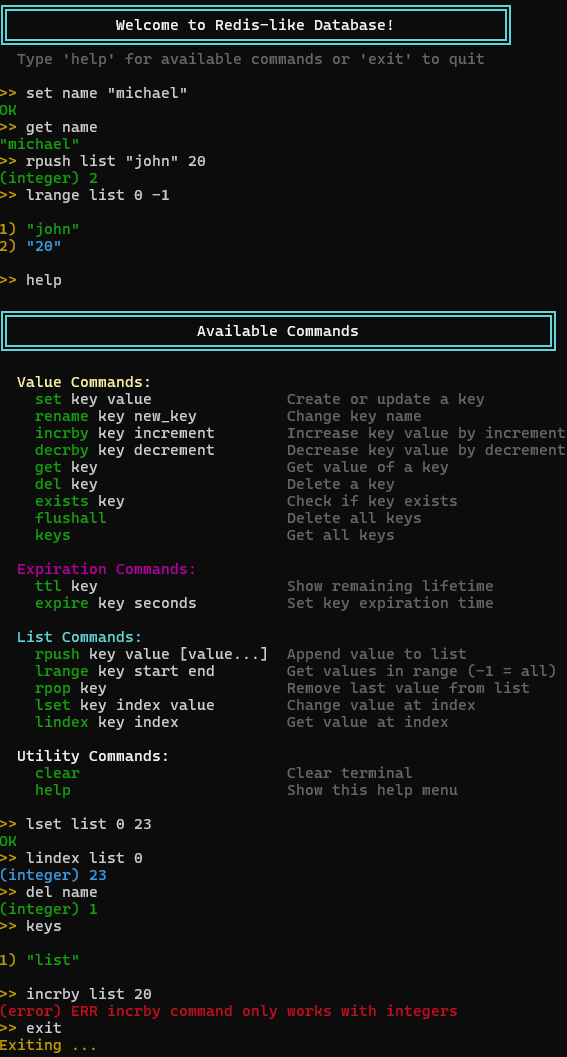
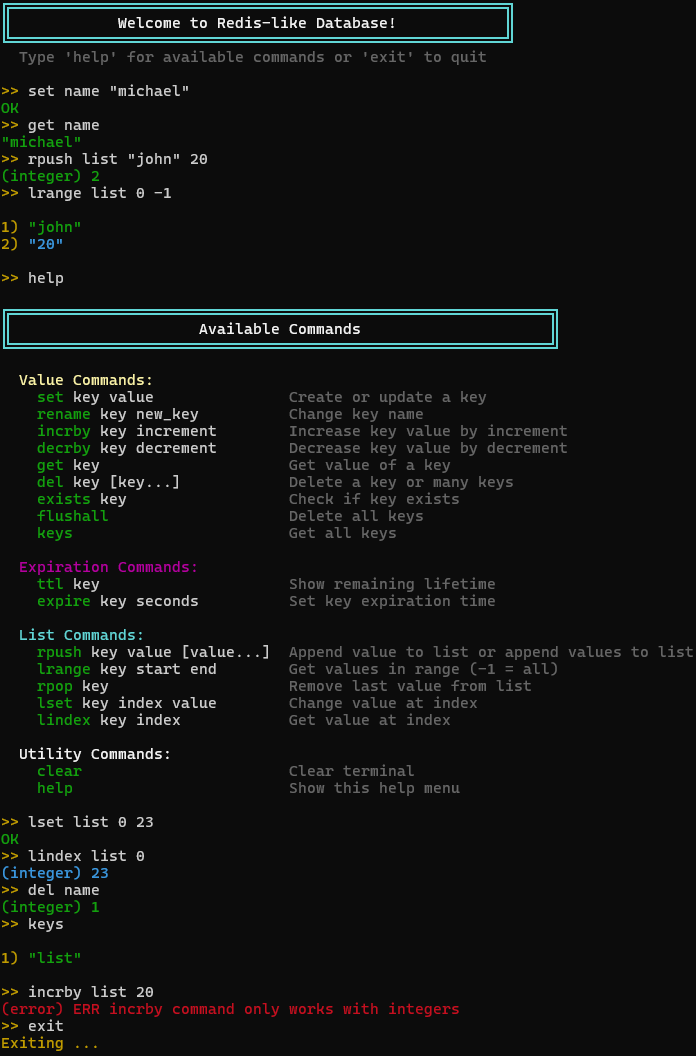
Added multi argument deletion to del command

diff --git a/source/operations.c b/source/operations.c
@@ -65,16 +65,19 @@ int op_get(HashMap **map, command_t *comm) {
 }
 
 int op_del(HashMap **map, command_t *comm) {
-    if(comm->counter != 2) {
+    if(comm->counter < 2) {
         printf(COLOR_RED "\n(error) ERR wrong number of arguments for 'del' command\n" COLOR_RESET);
-        printf(COLOR_YELLOW "(error) ERR correct usage: \"del KEY\"\n\n" COLOR_RESET);
+        printf(COLOR_YELLOW "(error) ERR correct usage: \"del KEY [KEY...]\"\n\n" COLOR_RESET);
         return -1;
     }
 
-    if(map_remove(*map,comm->argv[1])==-1)
-        return -1;
+    int counter = 0;
+    for(int i=1; i<comm->counter; i++) {
+        if(map_remove(*map,comm->argv[i])==-1) continue;
+        counter++;
+    }
 
-    printf(COLOR_GREEN "(integer) 1\n" COLOR_RESET);
+    printf(COLOR_GREEN "(integer) %d\n" COLOR_RESET,counter);
     return 0;
 }
 
@@ -184,7 +187,7 @@ int op_lrange(HashMap **map, command_t *comm) {
 int op_rpush(HashMap **map, command_t *comm) {
     if(comm->counter < 3) {
         printf(COLOR_RED "\n(error) ERR wrong number of arguments for 'rpush' command\n" COLOR_RESET);
-        printf(COLOR_YELLOW "(error) ERR correct usage: \"rpush KEY arg [arg...]\"\n\n" COLOR_RESET);
+        printf(COLOR_YELLOW "(error) ERR correct usage: \"rpush KEY ARG [ARG...]\"\n\n" COLOR_RESET);
         return -1;
     }
 
@@ -583,7 +586,7 @@ int op_help(HashMap **map, command_t *comm) {
     printf(COLOR_GREEN "    incrby" COLOR_RESET " key increment        " COLOR_DIM "Increase key value by increment\n" COLOR_RESET);
     printf(COLOR_GREEN "    decrby" COLOR_RESET " key decrement        " COLOR_DIM "Decrease key value by decrement\n" COLOR_RESET);
     printf(COLOR_GREEN "    get" COLOR_RESET " key                     " COLOR_DIM "Get value of a key\n" COLOR_RESET);
-    printf(COLOR_GREEN "    del" COLOR_RESET " key                     " COLOR_DIM "Delete a key\n" COLOR_RESET);
+    printf(COLOR_GREEN "    del" COLOR_RESET " key [key...]            " COLOR_DIM "Delete a key or many keys\n" COLOR_RESET);
     printf(COLOR_GREEN "    exists" COLOR_RESET " key                  " COLOR_DIM "Check if key exists\n" COLOR_RESET);
     printf(COLOR_GREEN "    flushall" COLOR_RESET "                    " COLOR_DIM "Delete all keys\n" COLOR_RESET);
     printf(COLOR_GREEN "    keys" COLOR_RESET "                        " COLOR_DIM "Get all keys\n" COLOR_RESET);
@@ -595,7 +598,7 @@ int op_help(HashMap **map, command_t *comm) {
 
     printf("\n");
     printf(COLOR_BOLD COLOR_CYAN "  List Commands:\n" COLOR_RESET);
-    printf(COLOR_GREEN "    rpush" COLOR_RESET " key value [value...]  " COLOR_DIM "Append value to list\n" COLOR_RESET);
+    printf(COLOR_GREEN "    rpush" COLOR_RESET " key value [value...]  " COLOR_DIM "Append value to list or append values to list\n" COLOR_RESET);
     printf(COLOR_GREEN "    lrange" COLOR_RESET " key start end        " COLOR_DIM "Get values in range (-1 = all)\n" COLOR_RESET);
     printf(COLOR_GREEN "    rpop" COLOR_RESET " key                    " COLOR_DIM "Remove last value from list\n" COLOR_RESET);
     printf(COLOR_GREEN "    lset" COLOR_RESET " key index value        " COLOR_DIM "Change value at index\n" COLOR_RESET);

diff --git a/source/hashmap.c b/source/hashmap.c
@@ -257,7 +257,6 @@ int map_remove(HashMap *map, char *key) {
         current = current->next;
     }
 
-    printf(COLOR_YELLOW "(integer) 0\n" COLOR_RESET);
     return -1;
 }
 
